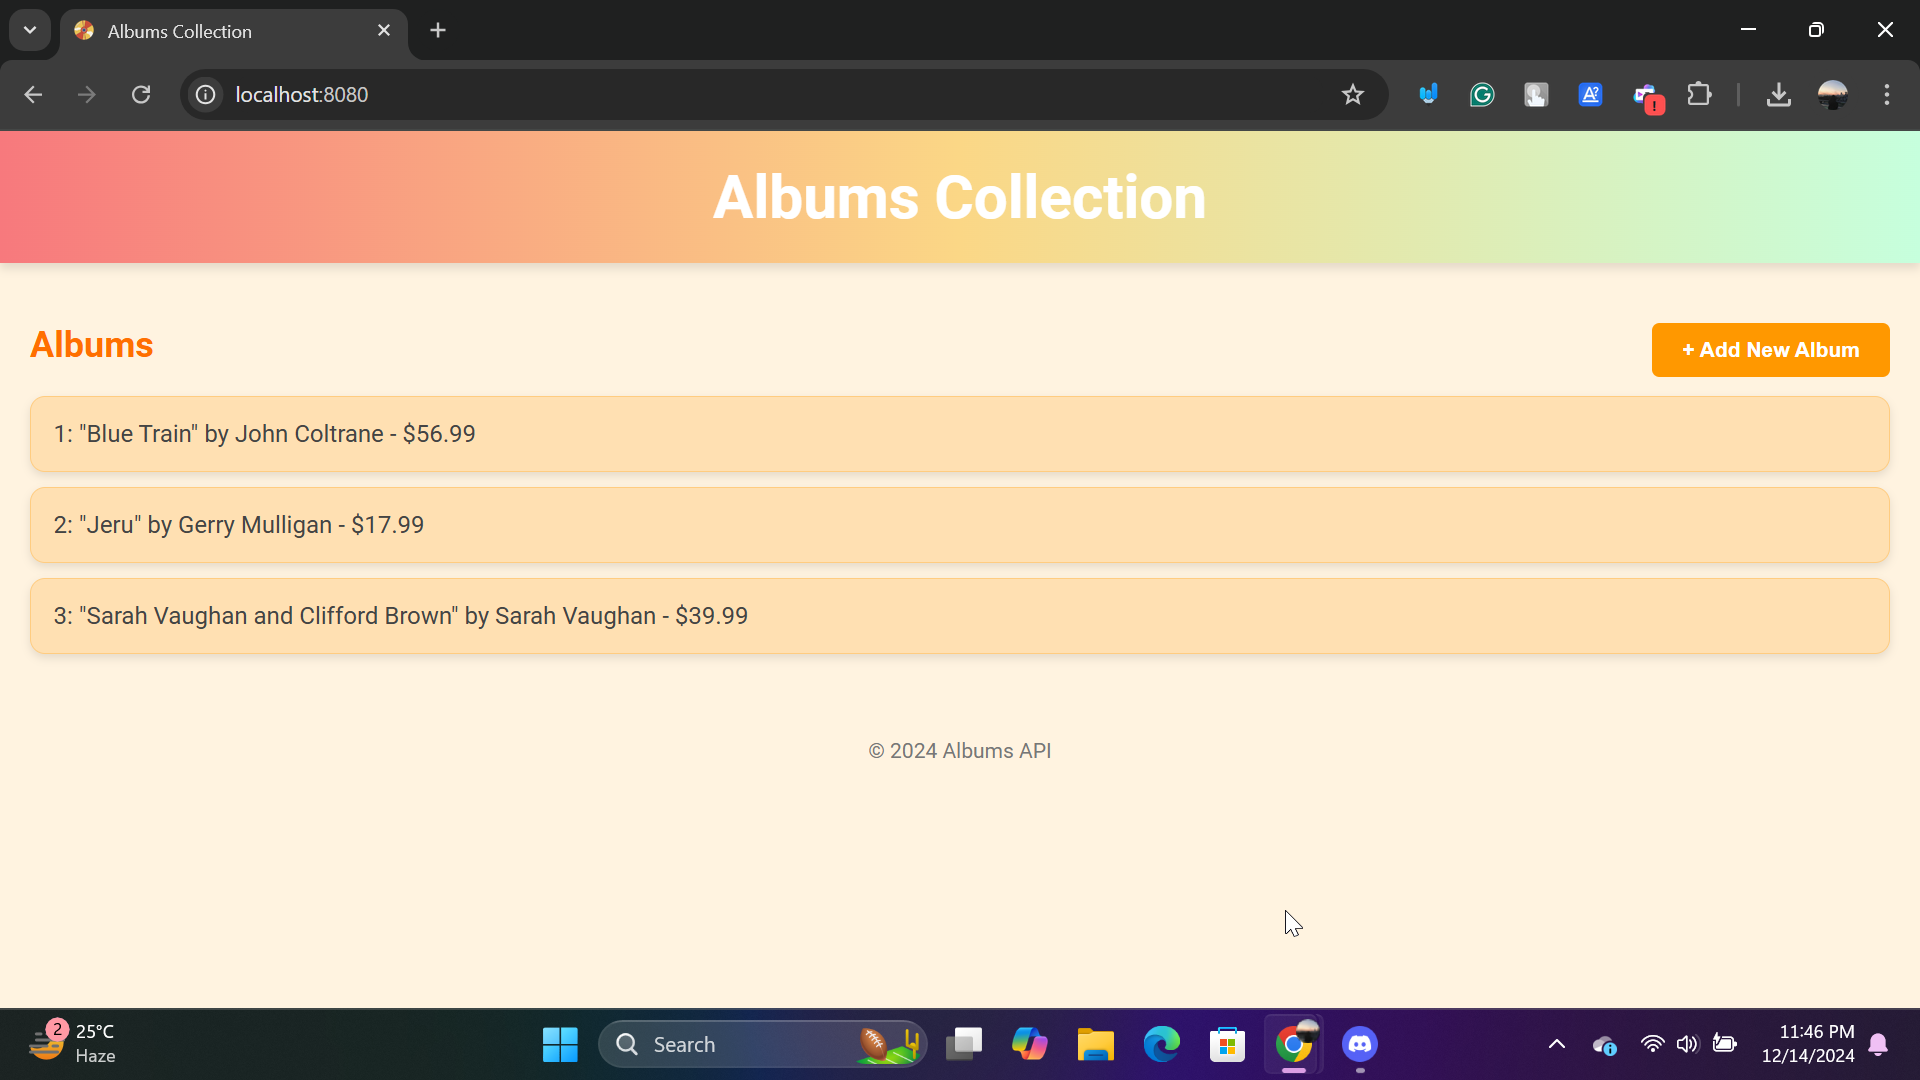
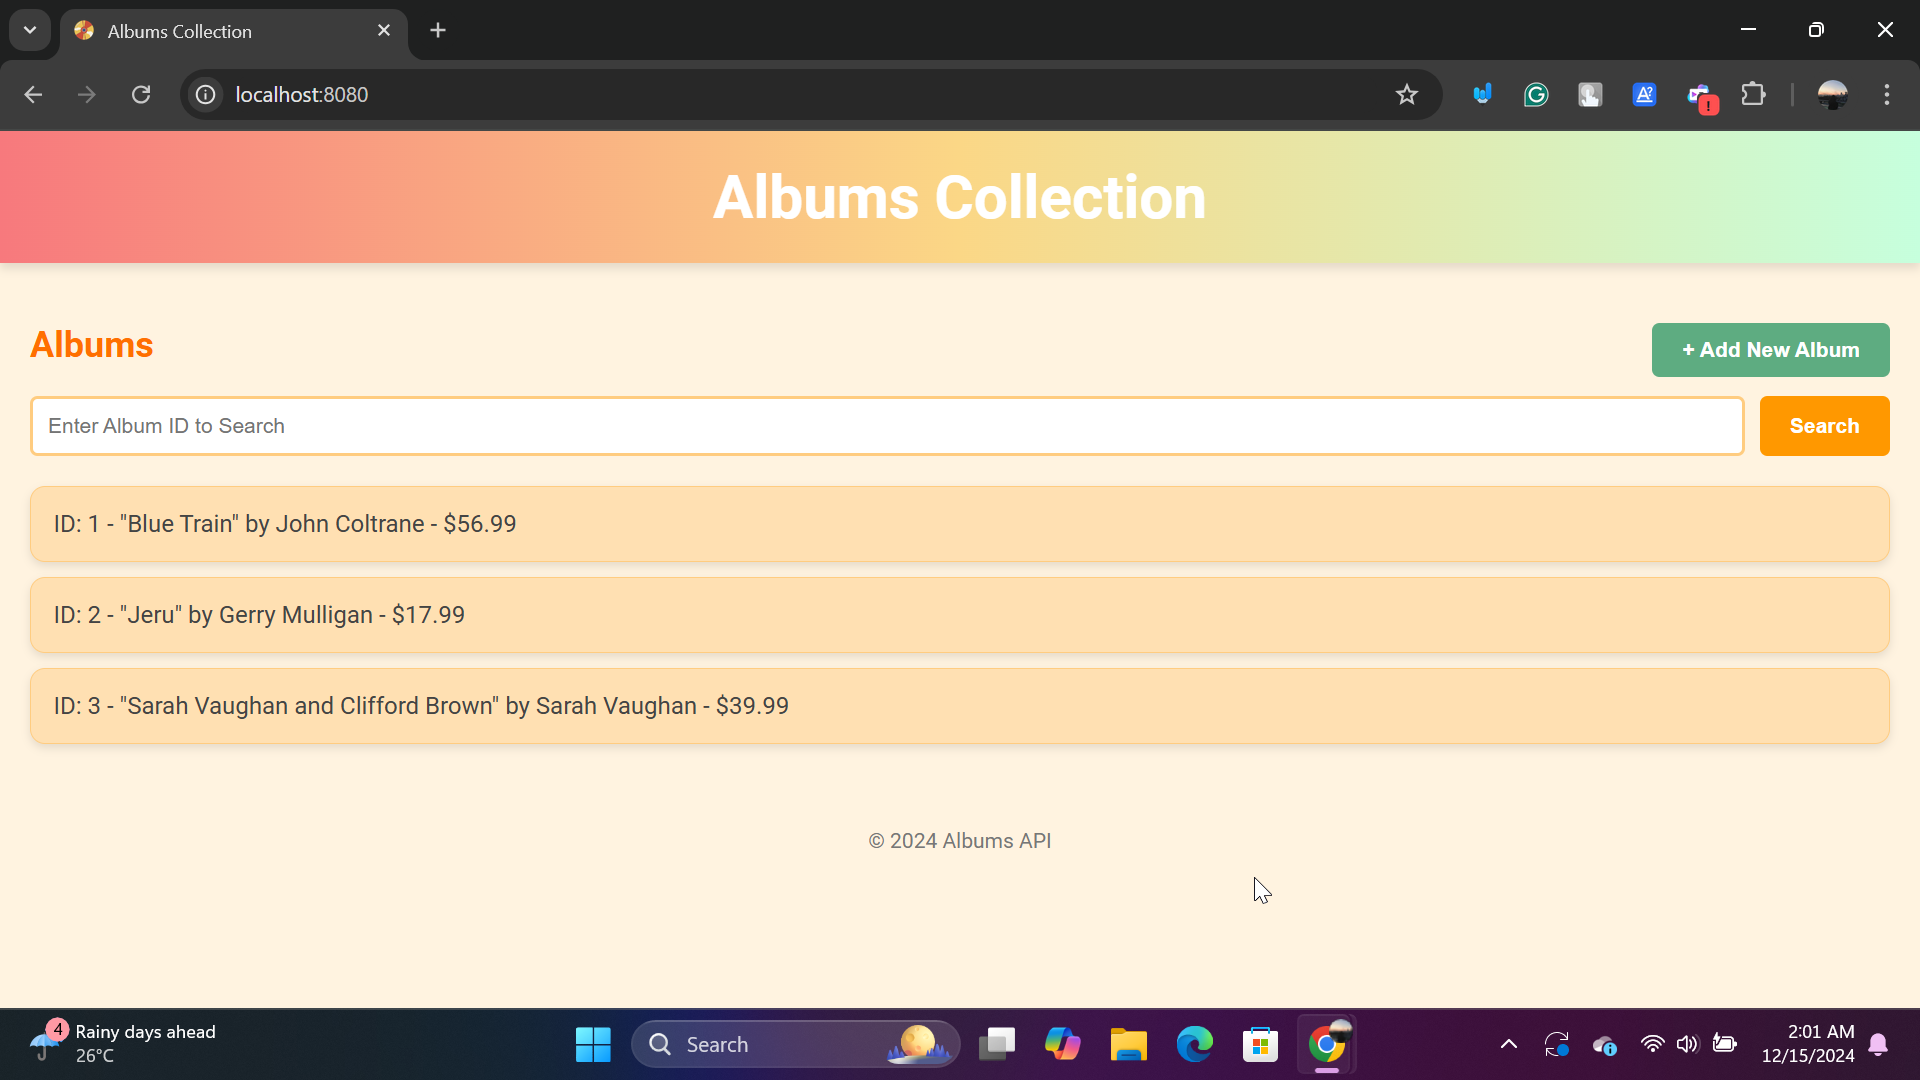
style: change album list to card view

diff --git a/web-service-gin/static/script.js b/web-service-gin/static/script.js
@@ -17,10 +17,11 @@ async function searchAlbum() {
     const albumId = searchInput.value.trim();
     const messageElement = document.getElementById('searchMessage');
 
-    // Clear previous message
+    // Clear previous message and cards
     if (messageElement) {
         messageElement.remove();
     }
+    albumsList.innerHTML = ''; // Clear the album list container
 
     if (!albumId) {
         alert('Please enter an album ID to search.');
@@ -39,17 +40,21 @@ async function searchAlbum() {
             newMessageElement.textContent = `Showing album with ID: ${albumId}`;
             albumsSection.insertBefore(newMessageElement, albumsList);
 
-            // Display the album
-            albumsList.innerHTML = `
-                <li>
-                    ID: ${album.id} - "${album.title}" by ${album.artist} - $${album.price.toFixed(2)}
-                </li>
+            // Create a card for the searched album
+            const card = document.createElement('div');
+            card.className = 'album-card';
+
+            card.innerHTML = `
+                <h3>${album.title}</h3>
+                <p><strong>Artist:</strong> ${album.artist}</p>
+                <p class="album-price"><strong>Price:</strong> $${album.price.toFixed(2)}</p>
+                <p><strong>ID:</strong> ${album.id}</p>
             `;
+
+            albumsList.appendChild(card);
         } else {
-            if (!response.ok) {
-                // Show "Album Not Found" popup
-                notFoundPopup.style.display = 'block';
-            }
+            // Show "Album Not Found" popup
+            notFoundPopup.style.display = 'block';
         }
     } catch (error) {
         console.error('Error searching album:', error);
@@ -70,11 +75,22 @@ async function fetchAlbums() {
     try {
         const response = await fetch(apiUrl);
         const albums = await response.json();
-        albumsList.innerHTML = ''; // Clear the album list
+        const albumsContainer = document.getElementById('albums');
+        albumsContainer.innerHTML = ''; // Clear the album list
+
         albums.forEach(album => {
-            const li = document.createElement('li');
-            li.textContent = `ID: ${album.id} - "${album.title}" by ${album.artist} - $${album.price.toFixed(2)}`;
-            albumsList.appendChild(li);
+            // Create a card for each album
+            const card = document.createElement('div');
+            card.className = 'album-card';
+
+            card.innerHTML = `
+                <h3>${album.title}</h3>
+                <p><strong>Artist:</strong> ${album.artist}</p>
+                <p class="album-price"><strong>Price:</strong> $${album.price.toFixed(2)}</p>
+                <p><strong>ID:</strong> ${album.id}</p>
+            `;
+
+            albumsContainer.appendChild(card);
         });
     } catch (error) {
         console.error('Error fetching albums:', error);

diff --git a/web-service-gin/static/styles.css b/web-service-gin/static/styles.css
@@ -6,14 +6,23 @@ body {
     color: #444;
 }
 header {
-    background: #C6FFDD;  /* fallback for old browsers */
-    background: -webkit-linear-gradient(to right, #f7797d, #FBD786, #C6FFDD);  /* Chrome 10-25, Safari 5.1-6 */
-    background: linear-gradient(to right, #f7797d, #FBD786, #C6FFDD); /* W3C, IE 10+/ Edge, Firefox 16+, Chrome 26+, Opera 12+, Safari 7+ */
+    background: linear-gradient(to right, #f7797d, #FBD786, #C6FFDD);
     color: white;
     padding: 20px;
     text-align: center;
     box-shadow: 0 4px 6px rgba(0, 0, 0, 0.1);
 }
+
+header .header-link {
+    text-decoration: none; /* Remove underline */
+    color: white; /* Ensure the link color matches the header text */
+    display: inline-block; /* Maintain block behavior for alignment */
+}
+
+header .header-link:hover {
+    text-decoration: underline; /* Add underline on hover */
+}
+
 h1 {
     margin: 0;
     font-size: 2.5rem;
@@ -223,4 +232,46 @@ footer {
         opacity: 1;
         transform: translateY(0);
     }
+}
+
+.album-cards {
+    display: flex;
+    flex-wrap: wrap;
+    gap: 20px;
+    justify-content: center;
+    padding: 20px 0;
+}
+
+.album-card {
+    background-color: #ffe0b2;
+    border: 1px solid #ffcc80;
+    border-radius: 10px;
+    box-shadow: 0 3px 6px rgba(0, 0, 0, 0.1);
+    width: 250px;
+    padding: 15px;
+    text-align: center;
+    transition: transform 0.3s, box-shadow 0.3s;
+}
+
+.album-card:hover {
+    transform: translateY(-5px);
+    box-shadow: 0 5px 10px rgba(0, 0, 0, 0.2);
+}
+
+.album-card h3 {
+    font-size: 18px;
+    color: #ff6f00;
+    margin-bottom: 10px;
+}
+
+.album-card p {
+    font-size: 14px;
+    margin: 5px 0;
+    color: #444;
+}
+
+.album-card .album-price {
+    font-weight: bold;
+    color: #333;
+    margin-top: 10px;
 }

diff --git a/web-service-gin/static/index.html b/web-service-gin/static/index.html
@@ -10,8 +10,10 @@
 </head>
 <body>
     <header>
-        <h1>Albums Collection</h1>
-    </header>
+        <a href="/" class="header-link">
+            <h1>Albums Collection</h1>
+        </a>
+    </header>    
     <main>
         <h2 style="color: #ff6f00;">Albums</h2>
         <div class="search-bar">
@@ -19,7 +21,7 @@
             <button id="searchButton">Search</button>
         </div>
         <button id="addAlbumButton">+ Add New Album</button>
-        <ul id="albums"></ul>
+        <div id="albums" class="album-cards"></div>
 
         <div id="overlay"></div>
 
